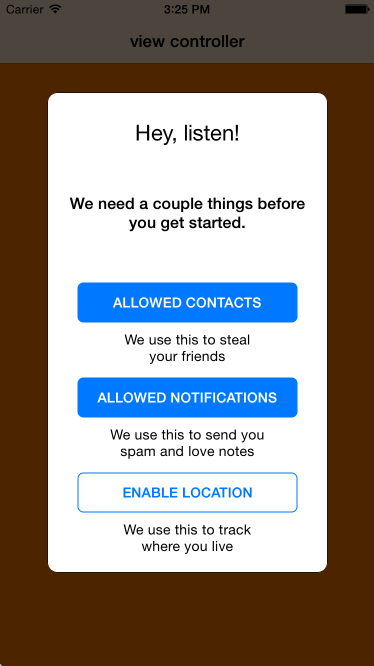
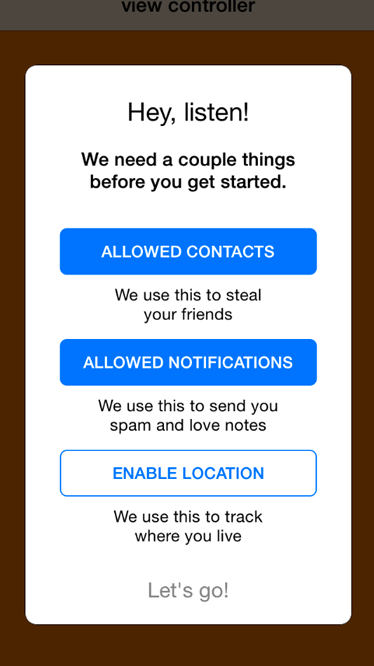
Updated images.

diff --git a/README.md b/README.md
@@ -9,6 +9,9 @@
 Inspired by (but unrelated to) [Periscope](https://www.periscope.tv)'s permission control, PermissionScope is a Swift framework for intelligently requesting permissions from users.
 
 ![permissions screen](https://raw.githubusercontent.com/nickoneill/PermissionScope/master/permissions.png)
+The default permissions
+![customized permissions](https://raw.githubusercontent.com/nickoneill/PermissionScope/master/permissions-treat.png)
+Some customization for [treat](https://gettre.at)
 
 We should all be more careful about when we request permissions from users, opting to request them only when they're needed and definitely not all in one barrage when the user opens the app for the first time.
 
